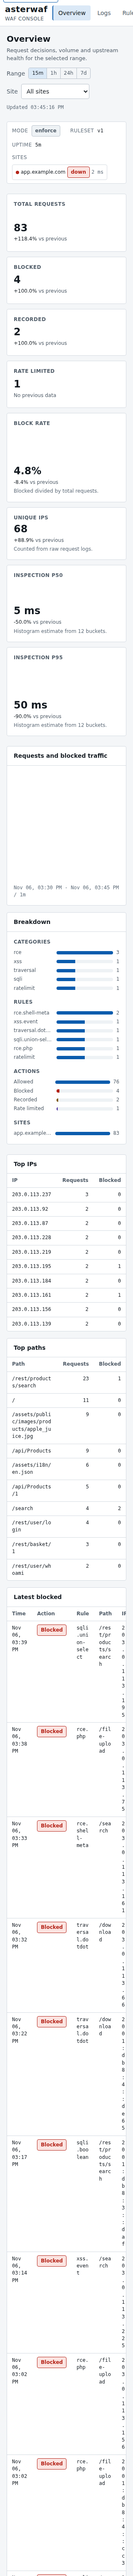
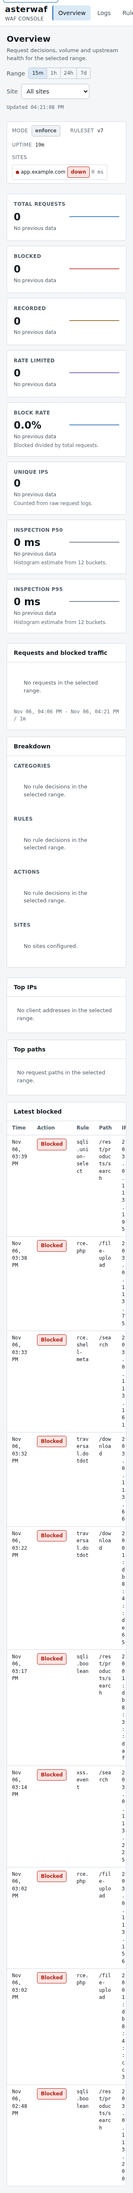
docs: record phase 10 verification and refresh screenshots

diff --git a/docs/progress.md b/docs/progress.md
@@ -15,7 +15,7 @@ Status of each phase, with branch, tag and open items. Update at the end of ever
 | 8a api-foundation | phase/8a-api-foundation | phase-8a | complete | admin listener, bcrypt login, sessions, origin checks, audit, health probes |
 | 8b api-management | phase/8b-api-management | phase-8b | complete | stats, logs, rule versions, ACL/rate/site persistence |
 | 9 ui-shell-and-overview | phase/9-ui-shell-and-overview | phase-9 | complete | responsive shell, tokenized themes, Overview, 36 screenshots |
-| 10 ui-management | phase/10-ui-management | phase-10 | pending | |
+| 10 ui-management | phase/10-ui-management | phase-10 | complete | logs filters/drawer/row actions, rule editor/test/versions, ACL and rate forms, site modes |
 | 11 fp-calibration | phase/11-fp-calibration | phase-11 | pending | |
 | 12 security-review | phase/12-security-review | phase-12 | pending | |
 
@@ -29,6 +29,15 @@ Status of each phase, with branch, tag and open items. Update at the end of ever
 - Copy is literal and lives in `web/src/copy.ts`; no marketing language.
 - Screenshots for six pages, two themes, and three widths are in `docs/screenshots/`, produced by `scripts/screenshots.mjs` against the locally installed Chromium. The script adds no npm dependency.
 - The screenshot script drives the UI through the real admin API with a session cookie; the local test database contains synthetic seed traffic.
+
+## Phase 10 verification
+
+- The four management pages were exercised through the real admin API with a browser session against a seed database:
+  - Logs: action filter returned only blocked records; row click opened the drawer; Escape closed it; stored headers and body rendered as plain text (no `v-html`/`innerHTML` in `web/src`); "Allow this IP", "Deny this IP" and "Disable rule" created the corresponding access entries and rule change.
+  - Rules: created a custom rule through the form, the payload test matched, save produced version 2 with 25 rows (defaults plus custom), the rule persisted across reloads, toggle and delete produced new versions, and rollback to an earlier version restored the deleted rule as a new version.
+  - Access lists: added and deleted entries, including one created from a log row with `source_log_id` recorded; rate limit GET/PUT round-tripped.
+  - Sites: mode selector saved `shadow` and the persisted value survived reloads; upstream stayed read-only.
+- Screenshots for all six pages, both themes, and three widths were regenerated after the changes; no horizontal overflow was reported.
 
 ## Open items
 
